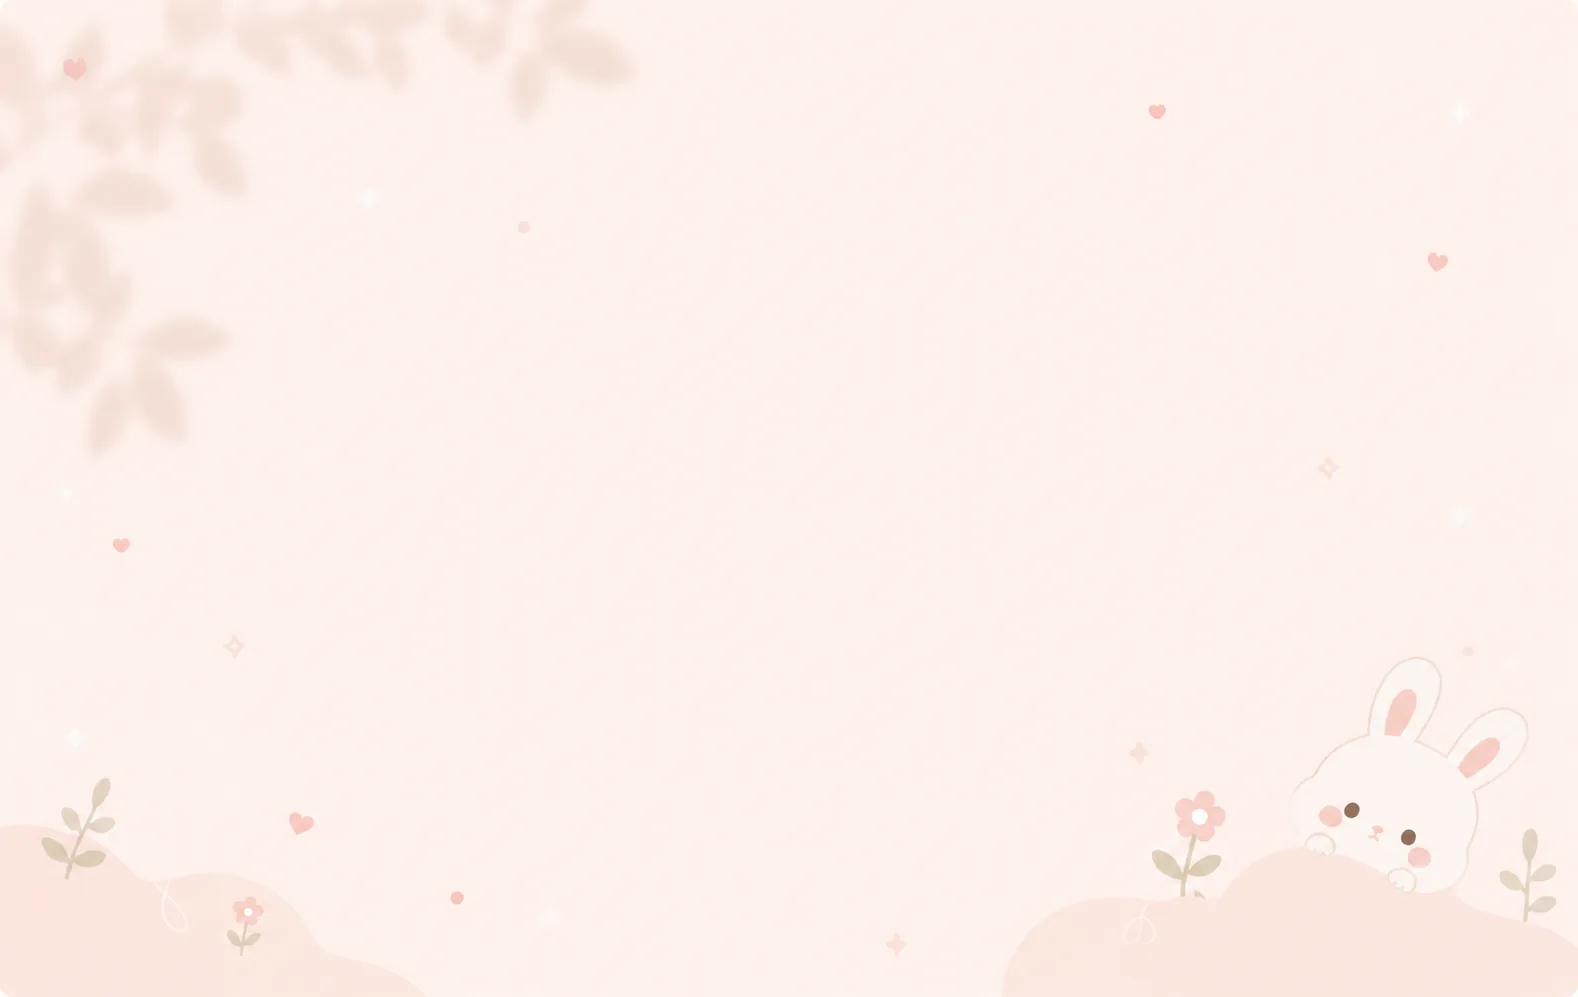
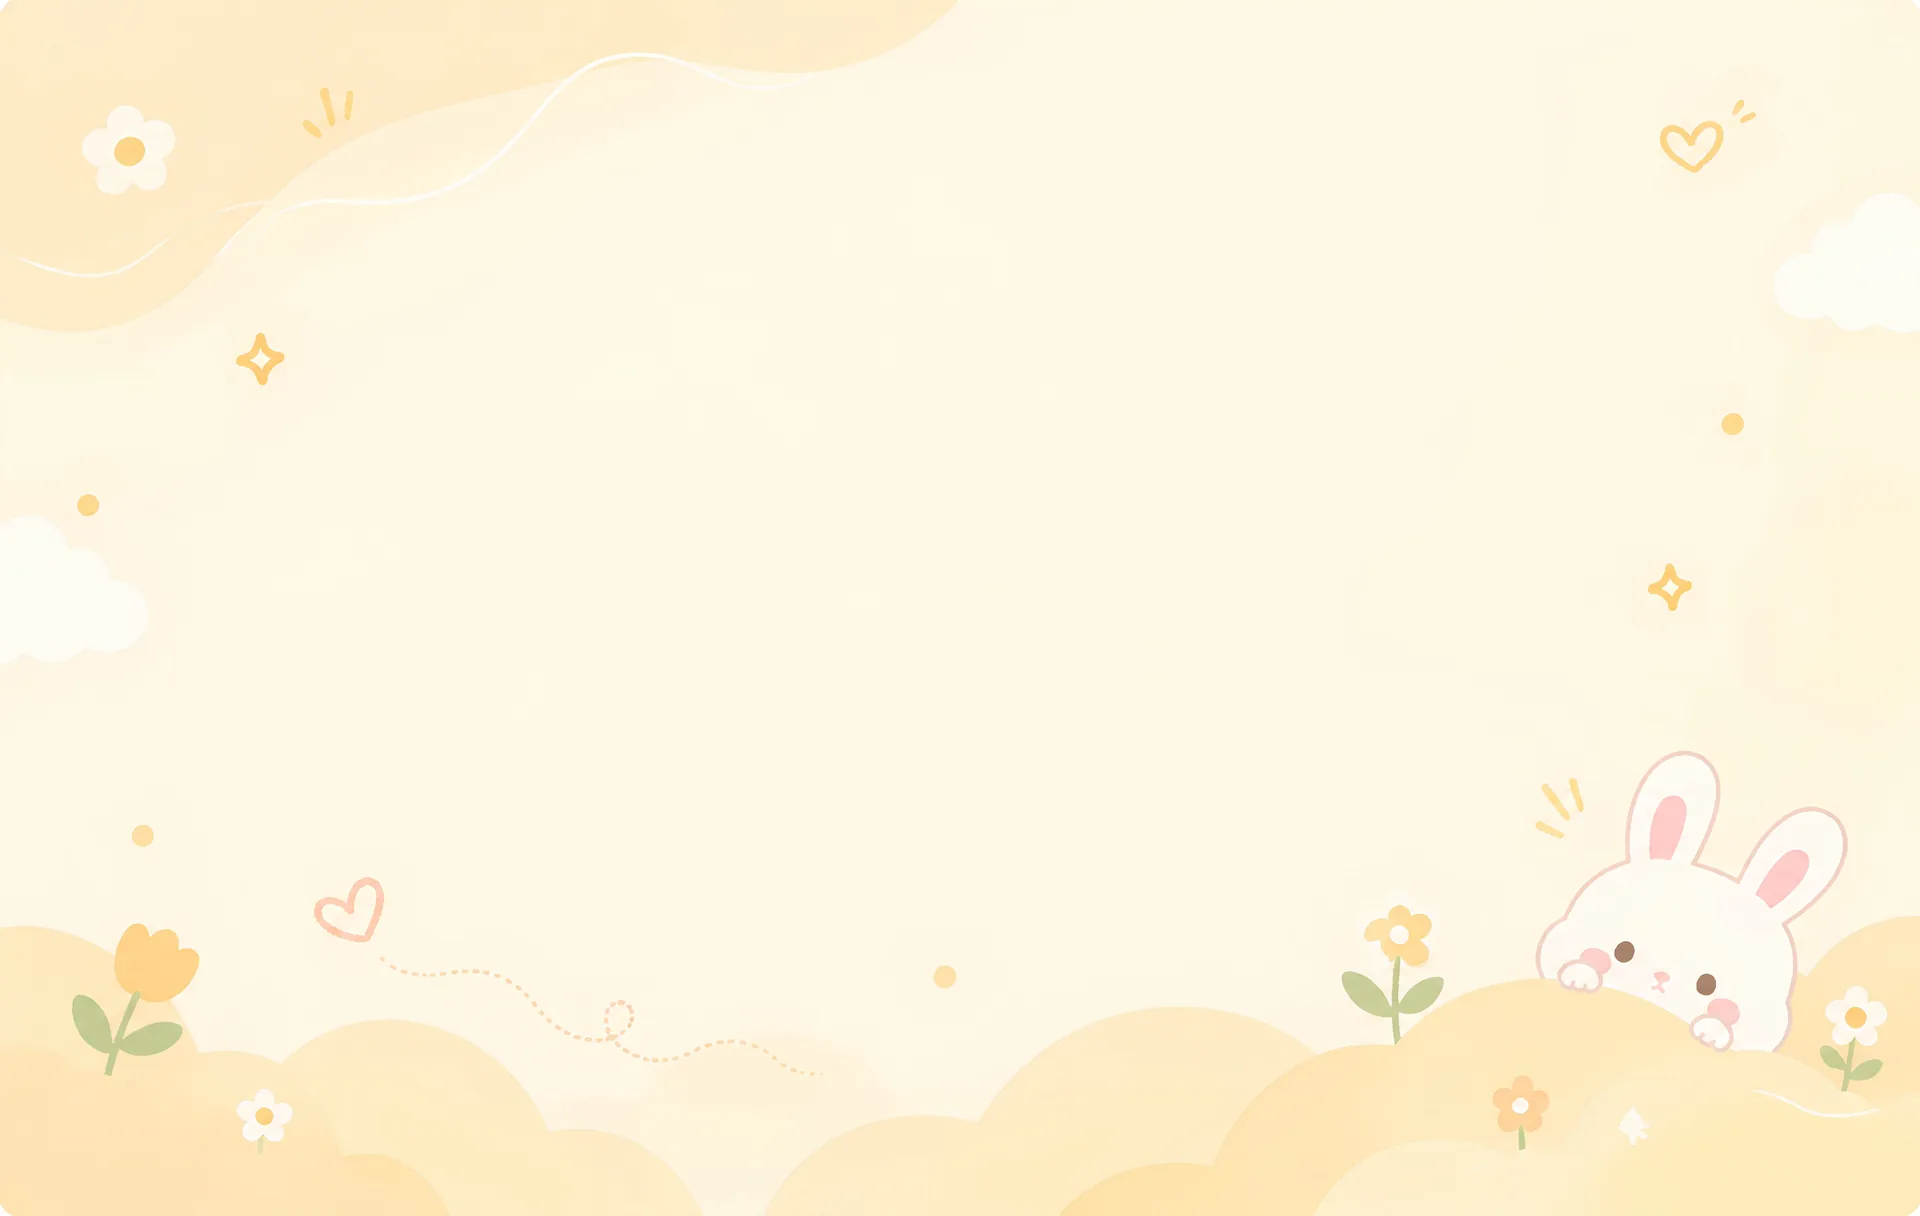
Repaint Jane's meadow in her own gold, and hold that colour before the art loads
The backdrop was pink while everything else on her page — the nav pill, the
card rims, the section labels — comes out of the yellow family. The new art
keeps the same composition, decoration around the edges and an empty middle
for the copy, so `cover` still crops the right thing.

The flat fill under the image goes to #fef8e5, the new picture's own centre,
so the moment before it loads is no longer a flash of the old pink.

diff --git a/src/components/Meadow.jsx b/src/components/Meadow.jsx
@@ -7,8 +7,8 @@
  * The flat fill under the image is the picture's own centre colour, so the
  * moment before it loads is the same cream rather than a flash of page white.
  *
- * The art carries its decoration around the edges — leaves top-left, a rabbit
- * peeking over the hills bottom-right — with a wide empty middle. `cover`
+ * The art carries its decoration around the edges — a daisy and clouds up top,
+ * a rabbit peeking over the hills bottom-right — with a wide empty middle. `cover`
  * centres that empty middle and lets the edges crop away on narrow screens,
  * which is the right thing to lose: the copy sits in the middle.
  */
@@ -17,7 +17,7 @@ export default function Meadow() {
     <div
       aria-hidden
       className="pointer-events-none fixed inset-0 -z-10"
-      style={{ background: "#fef2ed url(/ip/jane-bg.webp) center / cover no-repeat" }}
+      style={{ background: "#fef8e5 url(/ip/jane-bg.webp) center / cover no-repeat" }}
     />
   )
 }
